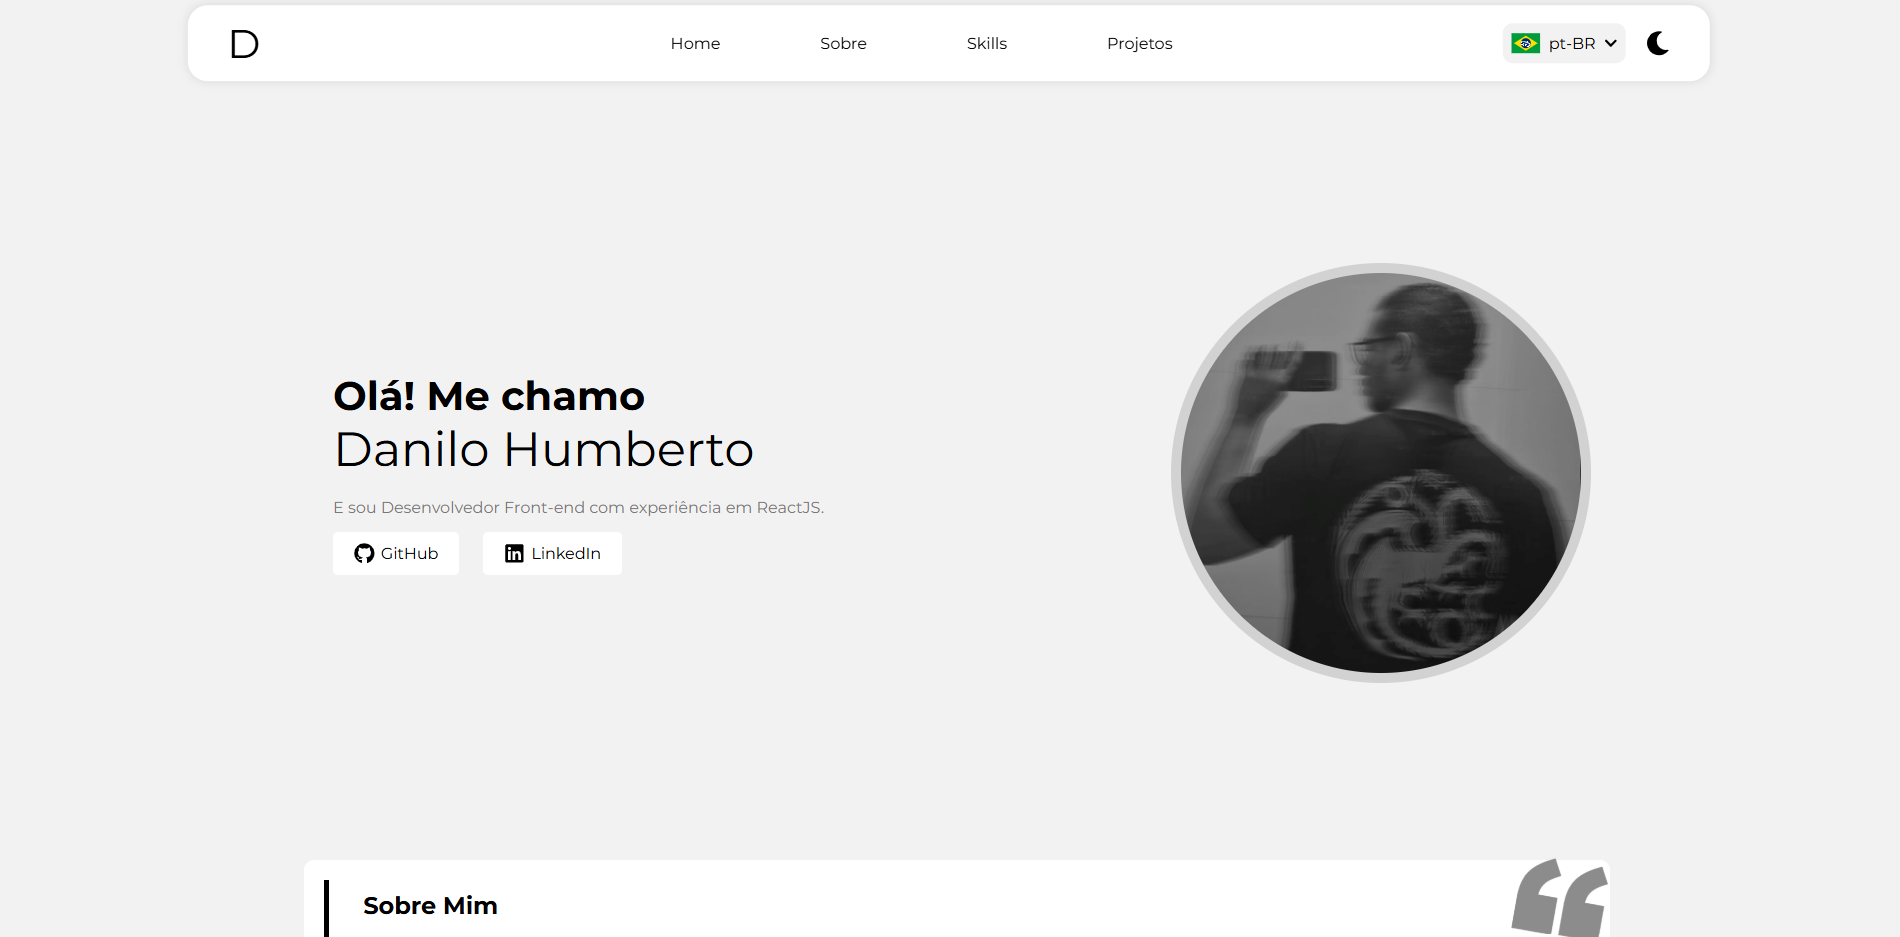
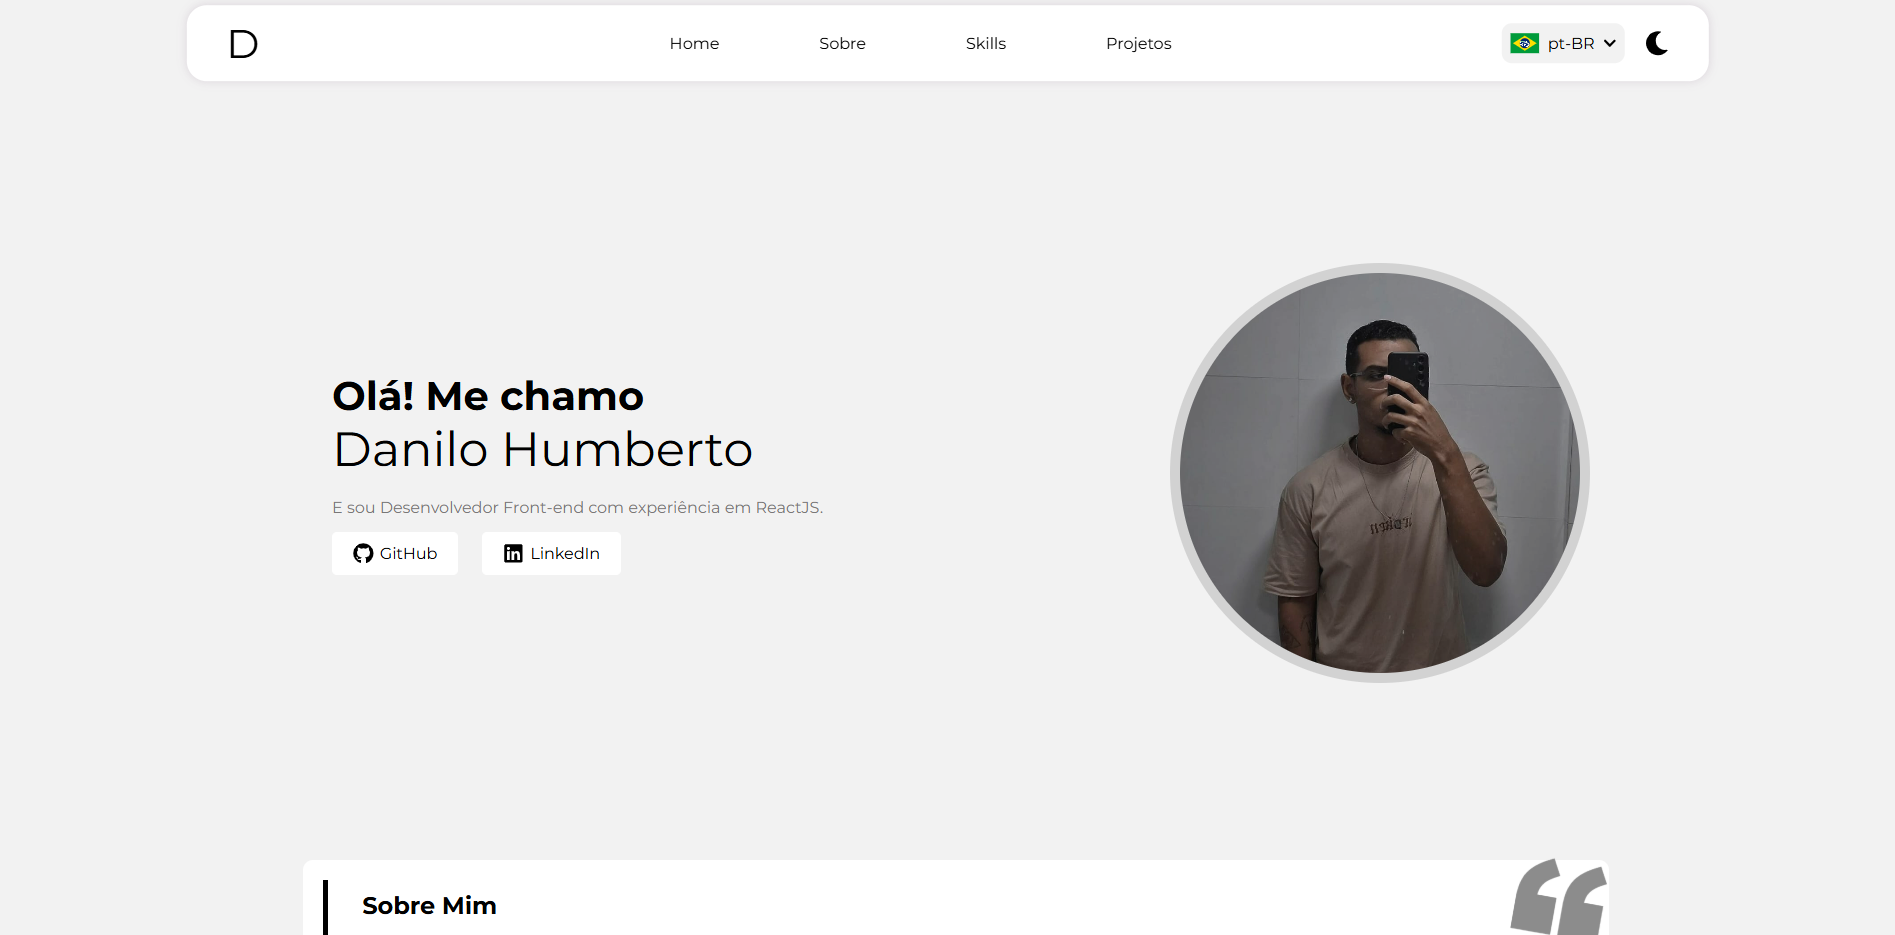
att

diff --git a/src/components/hero/Hero.jsx b/src/components/hero/Hero.jsx
@@ -33,7 +33,7 @@ const Hero = () => {
       </div>
       <div className="h-right">
         <div>
-          <img src="/teste.jpg" alt="foto de perfil" />
+          <img src="/perfil-img.jpg" alt="foto de perfil" />
           <div></div>
         </div>
       </div>

diff --git a/README.md b/README.md
@@ -6,7 +6,7 @@ Bem-vindo ao meu portfólio! Este projeto apresenta meus trabalhos, habilidades 
 
 ## 📸 Demonstração
 
-![Preview do Portfólio](./public/preview-portfolio.png) <!-- Substitua '#' pelo link da imagem ou gif -->
+![Preview do Portfólio](./public/preview-portfolio.png) 
 
 ## 🚀 Tecnologias Utilizadas
 
